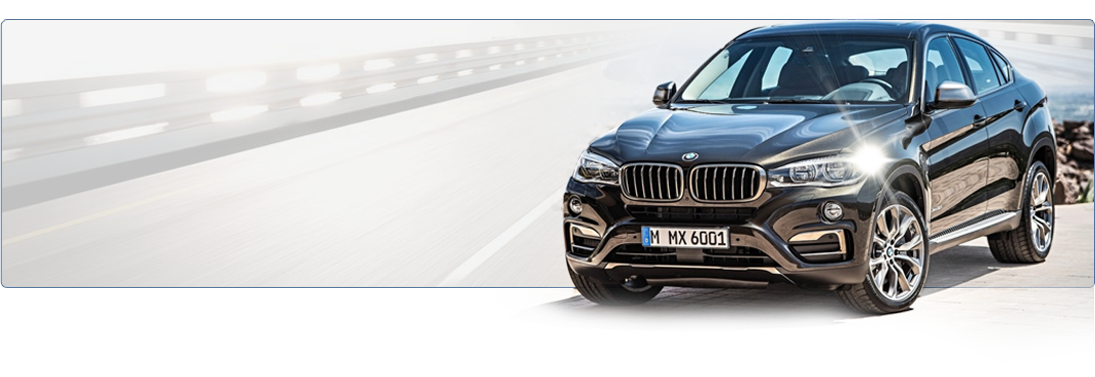
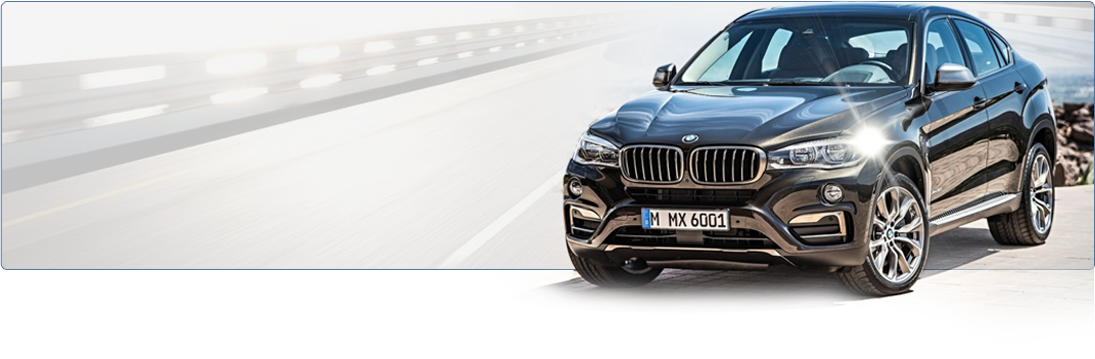
v 0.1

diff --git a/css/custom-styles.css b/css/custom-styles.css
@@ -25,17 +25,22 @@ ul li {
     display: inline-block;
 }
 
-a, button, input[type='submit'] {
+a, button, input {
     outline: none;
     border: none;
     cursor: pointer;
 }
-button::-moz-focus-inner, input[type="submit"]::-moz-focus-inner {
+button::-moz-focus-inner, input::-moz-focus-inner {
     outline: none;
     border: none;
 }
 
-.header, .footer, .menu-top, .header-info, .menu-middle, .block-choice {
+input:focus::-webkit-input-placeholder {color: transparent}
+input:focus::-moz-placeholder {color: transparent}
+input:focus:-moz-placeholder {color: transparent}
+input:focus:-ms-input-placeholder {color: transparent}
+
+.header, .footer, .menu-top, .header-info, .menu-middle, .block-choice, .menu-bottom {
     width: 100%;
 }
 
@@ -326,18 +331,172 @@ button::-moz-focus-inner, input[type="submit"]::-moz-focus-inner {
 .menu-middle ul li a:hover {
     text-decoration: underline;
 }
+.block-choice {
+    background: url('../images/car.png') no-repeat;
+    background-size: cover;
+    padding-top: 2%;
+}
 .title-block {
     font-family: "Lato Bold", sans-serif;
     font-size: 30px;
     text-transform: uppercase;
 }
-.block-choice {
-    padding: 2% 2.5%;
+.block-choice .title-block {
+    margin-left: 5%;
 }
-.block-choice .chooser-1-image {
+.block-choice .choose-car {
+    margin-left: 5%;
+}
+.block-choice .select-image {
+    display: block;
     width: 240px;
     height: 40px;
+    background: #ffffff;
+    margin-top: 15px;
+    -webkit-border-radius: 5px;
+    -moz-border-radius: 5px;
+    border-radius: 5px;
+    -webkit-box-shadow: 0 10px 10px -10px rgba(0, 0, 0, 0.75);
+    -moz-box-shadow:  0 10px 10px -10px rgba(0, 0, 0, 0.75);
+    box-shadow:  0 10px 10px -10px rgba(0, 0, 0, 0.75);
+    position: relative;
+    cursor: pointer;
+}
+.block-choice .selected {
+    font-size: 16px;
+    color: #727373;
+    line-height: 40px;
+    margin-left: 10px;
+}
+.block-choice .select-mark {
+    display: inline-block;
+    width: 22px;
+    height: 22px;
+    background: url('../images/bottom-arrow.png') no-repeat center;
+    background-size: cover;
+    position: absolute;
+    right: 5px;
+    top: 0;
+    bottom: 0;
+    margin: auto;
+    cursor: pointer;
+}
+.block-choice .select-image ul {
+    display: none;
+    position: absolute;
+    top: 0;
+    left: 240px;
+    width: 240px;
+    height: 400px;
+    background: #ffffff;
+    border: 1px solid #cccccc;
+    -webkit-border-radius: 5px;
+    -moz-border-radius: 5px;
+    border-radius: 5px;
+    overflow: auto;
+    padding: 5px 10px;
+}
+.block-choice .select-image ul li {
+    width: 100%;
+    line-height: 20px;
+}
+.block-choice .select-image ul li:hover {
+    color: #ffcc02;
 }
 .block-choice .select-1-wrap, .block-choice .select-2-wrap {
     display: none;
+}
+.choose-car input[type="submit"] {
+    width: 240px;
+    height: 80px;
+    background: #5384ad;
+    font-size: 18px;
+    font-weight: 600;
+    color: #ffffff;
+    text-transform: uppercase;
+    margin: 15px 0 35px;
+    -webkit-border-radius: 3px;
+    -moz-border-radius: 3px;
+    border-radius: 3px;
+}
+.choose-car input[type="submit"]:hover {
+    background: #589dc5;
+}
+.choose-car input[type="submit"]:active {
+    background: #3f5f7e;
+}
+
+.block-choice .choose-product {
+    display: inline-block;
+    width: auto;
+    vertical-align: top;
+}
+.block-choice input[type="search"] {
+    width: 420px;
+    height: 35px;
+    border: 2px solid rgba(204, 204, 204, 0.5);
+    -webkit-border-radius: 3px;
+    -moz-border-radius: 3px;
+    border-radius: 3px;
+    -webkit-box-shadow: 0 10px 10px -10px rgba(0, 0, 0, 0.75);
+    -moz-box-shadow:  0 10px 10px -10px rgba(0, 0, 0, 0.75);
+    box-shadow:  0 10px 10px -10px rgba(0, 0, 0, 0.75);
+    padding-left: 15px;
+    vertical-align: top;
+}
+.choose-product input[type="submit"] {
+    height: 35px;
+    line-height: 35px;
+    background: #ffcc03;
+    padding: 0 20px;
+    font-size: 16px;
+    text-transform: uppercase;
+    -webkit-border-radius: 3px;
+    -moz-border-radius: 3px;
+    border-radius: 3px;
+    vertical-align: top;
+}
+.choose-product input[type="submit"]:hover {
+    background: #ffe803;
+}
+.choose-product input[type="submit"]:active {
+    background: #ccb703;
+}
+.choose-product .radio-buttons {
+    display: inline-block;
+    vertical-align: top;
+}
+.choose-product .radio-buttons label {
+    display: block;
+    color: #727373;
+    margin-left: 10px;
+}
+.choose-product .radio-buttons label input {
+    margin-right: 5px;
+}
+.block-choice .last-search {
+    display: inline-block;
+    margin-left: 15px;
+}
+.block-choice .last-search a {
+    display: block;
+    vertical-align: top;
+    text-transform: uppercase;
+    font-size: 12px;
+    color: #595bb0;
+    text-decoration: none;
+}
+.block-choice .last-search a:hover {
+    text-decoration: underline;
+}
+
+.menu-bottom ul {
+    width: 100%;
+}
+.menu-bottom ul li {
+    width: 24.25%;
+    margin-right: 1%;
+}
+.menu-bottom ul li:last-child {
+    margin-right: 0;
 }

diff --git a/index.html b/index.html
@@ -124,8 +124,8 @@
 
             <form action="" class="choose-car">
                 <!-- Изображения селектов, связаны с самими селектами скриптом-->
-                <div class="chooser-1-image">
-                    <div class="chosen">Марка</div>
+                <div class="select-image select-1-image">
+                    <div class="selected">Марка</div>
                     <ul>
                         <li>Марка-1</li>
                         <li>Марка-2</li>
@@ -133,10 +133,10 @@
                         <li>Марка-4</li>
                         <li>Марка-5</li>
                     </ul>
-                    <div class="chooser-mark"></div>
+                    <div class="select-mark"></div>
                 </div>
-                <div class="chooser-2-image">
-                    <div class="chosen">Марка</div>
+                <div class="select-image select-2-image">
+                    <div class="selected">Марка</div>
                     <ul>
                         <li>Марка-1</li>
                         <li>Марка-2</li>
@@ -144,12 +144,11 @@
                         <li>Марка-4</li>
                         <li>Марка-5</li>
                     </ul>
-                    <div class="chooser-mark"></div>
+                    <div class="select-mark"></div>
                 </div>
                 <!-- Сами селекты, скрыты с целью обеспечения кроссбраузерности интерфейса-->
                 <label class="select-1-wrap">
                     <select id="select-1">
-                        <option value="Марка" selected></option>
                         <option value="Марка-1"></option>
                         <option value="Марка-2"></option>
                         <option value="Марка-3"></option>
@@ -159,7 +158,6 @@
                 </label>
                 <label class="select-2-wrap">
                     <select id="select-2">
-                        <option value="Марка" selected></option>
                         <option value="Марка-1"></option>
                         <option value="Марка-2"></option>
                         <option value="Марка-3"></option>
@@ -170,15 +168,48 @@
                 <input type="submit" value="Подобрать запчасти"/>
             </form>
 
-            <div class="choose-product">
+            <form action="" class="choose-product">
+                <label><input type="search" placeholder="Поиск"/></label>
+                <input type="submit" value="Искать"/>
+                <div class="radio-buttons">
+                    <label><input type="radio" name="search-criteria" value="by-code"/>Поиск по коду: 0450904149</label>
+                    <label><input type="radio" name="search-criteria" value="by-name" selected/>Поиск по названию, например: масло масло skoda</label>
+                </div>
+            </form>
 
+            <div class="last-search">
+                <a href="#">Вы искали</a>
+                <a href="#">Вы смотрели</a>
             </div>
 
         </div>
 
         <div class="menu-bottom">
             <ul>
-                <li><a href="#"></a></li>
+                <li>
+                    <a href="#">
+                        <span class="text-1">Подбор амортизаторов</span>
+                        <span class="text-2">по марке автомобиля</span>
+                    </a>
+                </li><!--
+             --><li>
+                    <a href="#">
+                        <span class="text-1">Подбор тормозных дисков</span>
+                        <span class="text-2"></span>
+                    </a>
+                </li><!--
+             --><li>
+                    <a href="#">
+                        <span class="text-1">Подбор тормозных колодок</span>
+                        <span class="text-2"></span>
+                    </a>
+                </li><!--
+             --><li>
+                    <a href="#">
+                        <span class="text-1">Жалобы, предложения, благодарности</span>
+                        <span class="text-2"></span>
+                    </a>
+                </li>
             </ul>
         </div>
 

diff --git a/js/custom-scripts.js b/js/custom-scripts.js
@@ -1,3 +1,25 @@
-/**
- * Created by USER on 22.03.2016.
- */
+$(document).ready(function () {
+
+    $('.block-choice .select-image').click(function() {
+        var selectorId = $(this).index();
+        $(this).find('ul').fadeToggle();
+        if(selectorId == 0) {
+            $('.block-choice .select-image').eq(1).find('ul').fadeOut(100);
+        } else if(selectorId == 1) {
+            $('.block-choice .select-image').eq(0).find('ul').fadeOut(100);
+        }
+    });
+
+    $('.block-choice .select-image ul li').click(function() {
+        var selectorId = $(this).parents('.select-image').index();
+        var productName = $(this).html();
+        var productId = $(this).index();
+        $(this).parents('.select-image').find('.selected').html(productName);
+        if(selectorId == 0) {
+            $('#select-1 option').eq(productId).attr("selected", "selected");
+        } else if(selectorId == 1) {
+            $('#select-2 option').eq(productId).attr("selected", "selected");
+        }
+    });
+
+});
